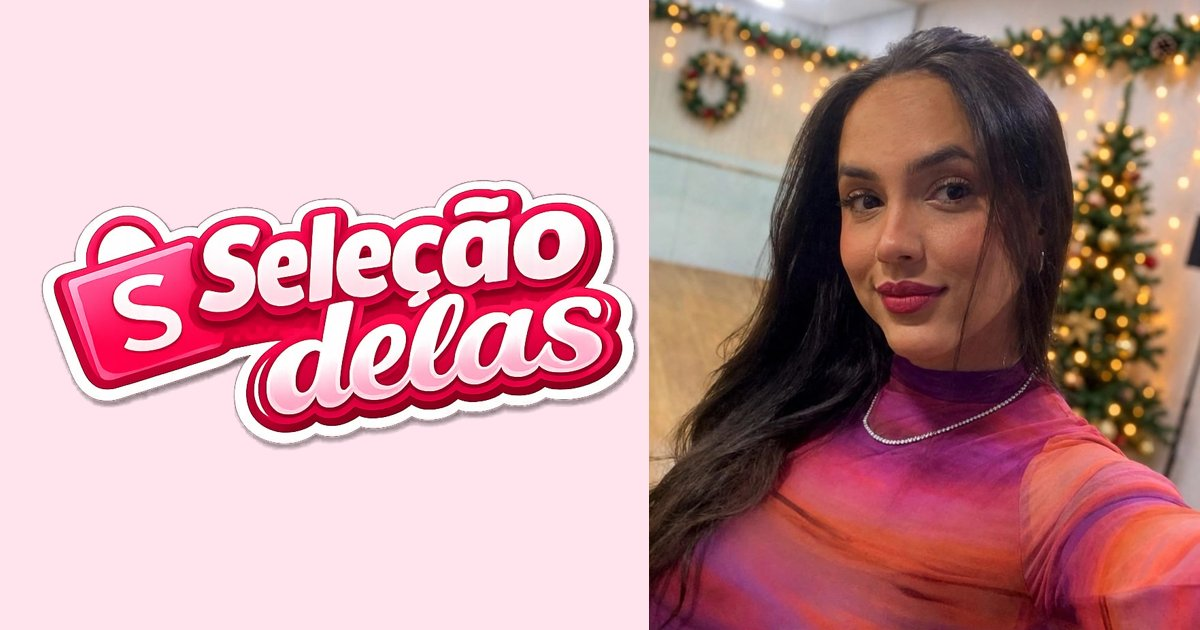
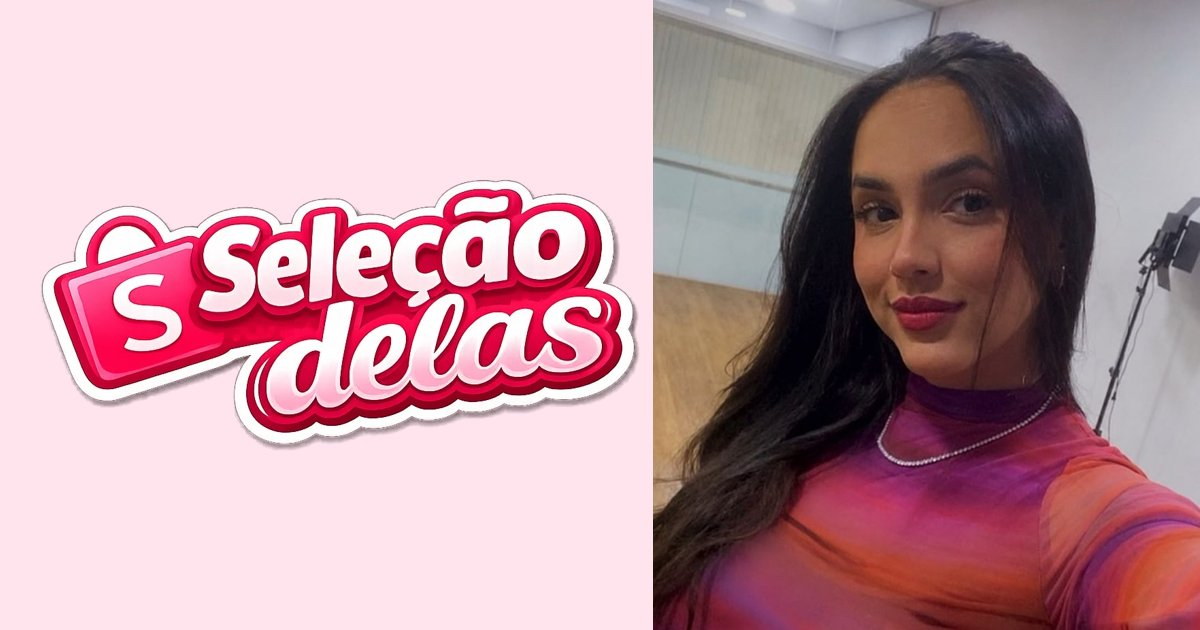
Add files via upload

diff --git a/src/css/components.css b/src/css/components.css
@@ -31,12 +31,12 @@
 
 .hero__media {
   position: relative;
-  width: min(72%, 260px);
+  width: min(58%, 210px);
 }
 
 .photo-frame {
   padding: 6px;
-  border-radius: var(--radius-lg);
+  border-radius: 50%;
   background: linear-gradient(145deg, var(--pink-300), var(--pink-500));
   box-shadow: var(--shadow-card);
 }
@@ -44,27 +44,21 @@
 .photo-frame__img {
   width: 100%;
   height: auto;
-  aspect-ratio: 4 / 4.6;
+  aspect-ratio: 1; /* quadrado → com border-radius 50% vira círculo */
   object-fit: cover;
-  object-position: 50% 30%;
-  border-radius: calc(var(--radius-lg) - 6px);
+  object-position: 38% 30%; /* centraliza o rosto no círculo */
+  border-radius: 50%;
 }
 
 .hero__seal {
   position: absolute;
-  right: -22px;
-  bottom: -16px;
-  width: 78px;
+  right: -4px;
+  bottom: 2px;
+  width: 64px;
   height: auto;
   filter: drop-shadow(0 6px 10px rgb(158 12 59 / 0.25));
-  animation: float-soft 6s ease-in-out infinite;
-  will-change: transform;
-}
-
-/* Flutuação bem discreta: só sobe/desce 3px, sem girar */
-@keyframes float-soft {
-  0%, 100% { transform: translateY(0); }
-  50% { transform: translateY(-3px); }
+  /* Selo fixo, sem animação: movimentos pequenos em imagem com sombra
+     causam "tremido" (arredondamento de pixel) em vários navegadores. */
 }
 
 .hero__content {

diff --git a/index.html b/index.html
@@ -23,9 +23,9 @@
     <link href="https://fonts.googleapis.com/css2?family=Poppins:wght@400;500;600;700;800&display=swap" rel="stylesheet" />
 
     <!-- O "?v=" força o navegador a baixar a versão nova após alterações -->
-    <link rel="stylesheet" href="src/css/main.css?v=3" />
+    <link rel="stylesheet" href="src/css/main.css?v=6" />
     <script>document.documentElement.classList.add('js-reveal');</script>
-    <script src="src/js/main.js?v=3" defer></script>
+    <script src="src/js/main.js?v=6" defer></script>
   </head>
 
   <body>
@@ -47,7 +47,7 @@
             <div class="photo-frame">
               <picture>
                 <source srcset="assets/img/foto.webp" type="image/webp" />
-                <img class="photo-frame__img" src="assets/img/foto.jpg" alt="Foto da curadora do grupo Seleção Delas" width="900" height="1035" fetchpriority="high" />
+                <img class="photo-frame__img" src="assets/img/foto.jpg" alt="Foto da curadora do grupo Seleção Delas" width="700" height="805" fetchpriority="high" />
               </picture>
             </div>
             <img class="hero__seal" src="assets/img/selo.png" alt="" width="512" height="495" />

diff --git a/src/css/responsive.css b/src/css/responsive.css
@@ -64,12 +64,12 @@
   }
 
   .hero__media {
-    width: 280px;
+    width: 230px;
   }
 
   .hero__seal {
-    width: 92px;
-    right: -30px;
+    width: 74px;
+    right: -6px;
   }
 
   .hero__subtitle {
